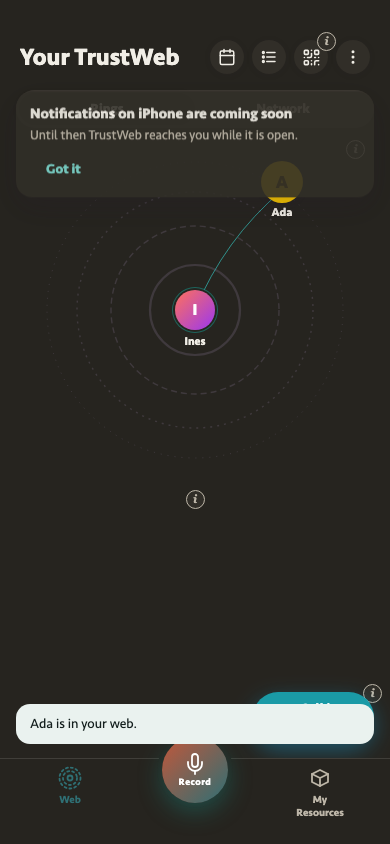
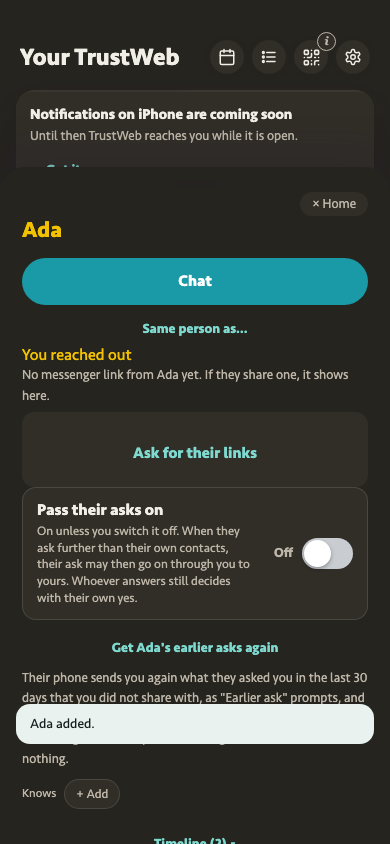
[wave16] Visitor flow: add the inviter by your own tap (no auto-connect), settings gear on the Web screen, hint before demo card, reliable-notifications wording, download note with sideloading advice (#32)
* [wave16] Visitor via a link: an empty web with the add sheet; only "Add to my web" connects (reach-out as before); "Not now" keeps an invite card

* [wave16] APK hint wording: "Get reliable notifications"; Settings: "Install the Android app for reliable notifications"

* [wave16] Web header: the settings gear as on My Resources (was ⋮); Settings > Your web holds "Curate your web"; e2e scripts open Settings by the gear

* [wave16] The yellow-dot legend only on a phone with a username link once someone reached out to it, never for the visitor who sent one

* [wave16] The APK/iPhone hint comes first right after join (no wait); the demo-content card only after it was answered or when none applies

* [wave16] "Not now" on the APK hint: toast "You can still find this at the top of Settings." (Android)

* [wave16] APK download (hint, Settings card, Install sheet): also a sheet "Check your Downloads folder on your phone" with the sideloading note and the GitHub source link

* [wave16] e2e visitor_apk_hint: add sheet before connect, hint before demo card, Not now toast, download sheet, gear; screenshots 06/07

* Wave 16: the download note names GitHub in the sentence ("check ours (open source on GitHub)")

---------

diff --git a/apps/trustweb/src/main.ts b/apps/trustweb/src/main.ts
@@ -61,7 +61,7 @@ import { randomId } from '../../demo/src/crypto'
 import { Net } from './net'
 import { stripUnsafe } from './safe_text'
 import type { AskResult, IncomingAsk, RelayStatus } from './net'
-import { AboutKind, ageLabel, askDirectOnly, Audience, AUDIENCES, Channel, CHANNELS, DEFAULT_RECORDINGS, DefaultRecording, defaultRecording, demoAccountScope, demoOnlyForDemoAccounts, enginePlan, featureOn, feedOn, setFeature, HintId, HINTS, isDemoItem, isDemoPerson, LEANS, LineStatus, pastMeetings, ProvenanceState, QueryStyle, RECORD_LINE_AUDIENCE, Ring, RINGS, REACH_OUT_INK, ringColor, ServerJobState, TabOrder, Tag, TAGS, threadIsDemo, ENGINE_CHOICES, TranscriptionChoice, transcriptionChoice } from './model'
+import { AboutKind, ageLabel, askDirectOnly, Audience, AUDIENCES, Channel, CHANNELS, DEFAULT_RECORDINGS, DefaultRecording, defaultRecording, demoAccountScope, demoOnlyForDemoAccounts, enginePlan, featureOn, feedOn, setFeature, HintId, HINTS, isDemoItem, isDemoPerson, LEANS, LineStatus, pastMeetings, ProvenanceState, QueryStyle, RECORD_LINE_AUDIENCE, Ring, RINGS, REACH_OUT_INK, reachOutLegendShown, ringColor, ServerJobState, TabOrder, Tag, TAGS, threadIsDemo, ENGINE_CHOICES, TranscriptionChoice, transcriptionChoice } from './model'
 import { CONSENSUAL_AGREEMENTS_LINK, channelLink, normalizeHandle } from './channel'
 import {
   REQUESTABLE, answerPlan, buildContactPayload, chatOnConsensual, consensualReachable, contactText, holdContact, mayAnswerRequest, mayAskAgain, parseRequestText, primaryReachable, reachableChannels,
@@ -118,7 +118,7 @@ import { agreementsSection } from './agreements_view'
 import { addNorm, buildProfileText, receiveProfileText, removeNorm, repairProfile, setOne } from './profile'
 import type { MyProfile } from './profile'
 import { profileSheetNodes, theirProfileBlock } from './profile_view'
-import { APK_URL, apkPart, currentEnv, isAndroidAgent, isIosAgent, setUpInstall } from './install'
+import { APK_URL, apkPart, currentEnv, isAndroidAgent, isIosAgent, onApkDownload, setUpInstall } from './install'
 import { apkHintKind, apkSettingsRow, type ApkHintEnv } from './apk_hint'
 import { runsAsInstalledApp } from './standalone_app'
 import { createInstallSheets } from './install_sheets'
@@ -663,6 +663,8 @@ function drawCardStack(): void {
   if (!state || screen !== Screen.Web || queryOpen || demoAccounts().some((t) => t.pending)) { cardStackEl.replaceChildren(); cardStackEl.hidden = true; return }
   const cards = stackCards(state, Date.now(), demoPhone(), quietHidden, (peerId) => Boolean(personOf(st().people, peerId)))
   drawStack(cardStackEl, cards, stackDeps)
+  const invite = inviteCard()
+  if (invite) { cardStackEl.prepend(invite); cardStackEl.hidden = false }
   for (const card of cards) if (hidesItself(card)) hideQuietLater(card.key)
 }
 
@@ -1199,6 +1201,8 @@ function apkUpdatesRow(s: AppState): HTMLElement[] {
   ]
 }
 
+const TRUSTWEB_SOURCE = 'https://github.com/Evobiosys/trustweb'
+
 /** Wave 16 (apk_hint.ts): what the hint decides from, read now. */
 function apkHintEnv(): ApkHintEnv {
   const e = currentEnv()
@@ -1210,25 +1214,35 @@ function apkHintEnv(): ApkHintEnv {
 }
 
 /**
- * Wave 16: the visitor's notice (Android: get the app; iPhone: coming soon). Seam: after offerNotifications and offerDemoContent
- * had their turn, it takes the top notice only when no other card or sheet is up, and tries again every few seconds while one is.
+ * Wave 16: the visitor's notice (Android: get the app; iPhone: coming soon), shown until dismissed (Jakob 2026-10-19). It comes FIRST
+ * (a sheet slides over it); `then` (the demo-content card) runs once it was answered, or at once when no notice applies. While another
+ * card is up it tries again every few seconds.
  */
-/** Jakob 2026-10-19: shown until dismissed. It waits only while another card is up (a sheet slides over it and it is there when the sheet closes). */
-function offerApkHint(): void {
-  setTimeout(() => {
-    if (!state || solo) return
-    const kind = apkHintKind(apkHintEnv())
-    if (!kind) return
-    if (!friendsEl.hidden) { offerApkHint(); return }
-    const android = kind === 'android'
-    const dismiss = (): void => { dismissNotice(st(), android ? 'apk-hint' : 'ios-soon'); save(); hideNotice() }
-    showNotice(android ? S.apkHintTitle : S.iosSoonTitle, android ? S.apkHintBody : S.iosSoonBody, android
-      ? [el('a', { class: 'btn btn-electric btn-sm', href: APK_URL, rel: 'noopener' }, [S.instApkButton]), el('button', { class: 'btn btn-ghost btn-sm', onclick: dismiss }, [S.apkHintNotNow])]
-      : [el('button', { class: 'btn btn-ghost btn-sm', onclick: dismiss }, [S.iosSoonOk])])
-    friendsEl.querySelector('span')?.setAttribute(android ? 'data-apk-hint' : 'data-ios-soon', '')
-    friendsEl.classList.add('stack')
-  }, 4500)
+function offerApkHint(then: () => void): void {
+  if (!state || solo) return
+  const kind = apkHintKind(apkHintEnv())
+  if (!kind) { then(); return }
+  if (!friendsEl.hidden) { setTimeout(() => offerApkHint(then), 4500); return }
+  const android = kind === 'android'
+  const answered = (): void => { hideNotice(); then() }
+  const dismiss = (): void => { dismissNotice(st(), android ? 'apk-hint' : 'ios-soon'); save(); answered(); if (android) toast(S.apkHintLaterToast) }
+  showNotice(android ? S.apkHintTitle : S.iosSoonTitle, android ? S.apkHintBody : S.iosSoonBody, android
+    ? [el('a', { class: 'btn btn-electric btn-sm', href: APK_URL, rel: 'noopener', onclick: () => { hideNotice(); apkDownloadedSheet(then) } }, [S.instApkButton]), el('button', { class: 'btn btn-ghost btn-sm', onclick: dismiss }, [S.apkHintNotNow])]
+    : [el('button', { class: 'btn btn-ghost btn-sm', onclick: dismiss }, [S.iosSoonOk])])
+  friendsEl.querySelector('span')?.setAttribute(android ? 'data-apk-hint' : 'data-ios-soon', '')
+  friendsEl.classList.add('stack')
 }
+
+/** Wave 16 (Jakob 2026-10-19): the APK link opens the download and this sheet (sideloading, then the permission off again). `then` after "Got it". */
+function apkDownloadedSheet(then?: () => void): void {
+  openSheet([el('div', { 'data-apk-downloaded': '' }, [
+    el('h3', {}, [S.apkDlTitle]),
+    el('p', {}, [S.apkDlBody]),
+    el('p', {}, [S.apkDlAfterBefore, el('a', { href: TRUSTWEB_SOURCE, rel: 'noopener', target: '_blank', title: S.apkDlSource }, [S.apkDlCheckOurs]), S.apkDlAfterAfter]),
+    el('button', { class: 'btn btn-electric', onclick: () => { closeSheet(); then?.() } }, [S.apkDlOk]),
+  ])])
+}
+onApkDownload(() => apkDownloadedSheet())
 
 function offerDemoContent(): void {
   const s = state
@@ -1289,19 +1303,24 @@ function announceLink(): void {
   }
 }
 
-async function completePendingConnect(): Promise<void> {
+/** `picked`: the visitor's add sheet ran it (offerPendingConnect) with the typed name and the ring; then their card opens, no second sheet. */
+async function completePendingConnect(picked?: { name: string; ring: Ring }): Promise<void> {
   const link = pendingConnect
   if (!link || !state) return
   pendingConnect = null
+  drawCardStack()
   const reachOut = reachOutPending && !solo && !demoLink
   reachOutPending = false
-  const ring = reachOut ? Ring.Intending : solo ? Ring.Friend : Ring.Acquaintance
+  const ring = picked?.ring ?? (reachOut ? Ring.Intending : solo ? Ring.Friend : Ring.Acquaintance)
   const peer = await net.completeConnect(link, ring, reachOut)
   const s = st()
   let person = s.people.find((p) => p.peerId === peer.id)
   if (!person) {
-    person = { id: randomId(8), name: peer.displayName, context: '', ring, metAt: Date.now(), lines: [], peerId: peer.id }
+    person = { id: randomId(8), name: picked?.name || peer.displayName, context: '', ring, metAt: Date.now(), lines: [], peerId: peer.id }
     s.people.push(person)
+  } else if (picked) {
+    if (picked.name) person.name = picked.name
+    person.ring = ring
   }
   if (reachOut && person.ring === Ring.Intending) person.reachedOut = 'sent'
   if (sharedNotes) {
@@ -1327,13 +1346,44 @@ async function completePendingConnect(): Promise<void> {
     if (demoLink.peer) await connectDemoPeer(demoLink.peer, person)
     queryOpen = true
     toast(S.demoWaitingToast(peer.displayName))
+  } else if (picked) {
+    toast(ring === Ring.Intending ? S.personAddedToast(person.name) : S.connectAddedToast(person.name))
   } else {
     toast(ring === Ring.Intending ? S.personAddedToast(peer.displayName) : S.peerConnectedToast(peer.displayName, S.ringLabel[ring]))
   }
   render()
   // Wave 6b: a scanned or pasted link lands on the person: the add sheet, then their card. A demo account and the demo phones keep the direct flow.
   if (demoLink || solo) openPendingShare()
-  else openConnectAdd(peer, person, link.from.displayName)
+  else if (picked) {
+    viaCard.closed(person.id)
+    if (!openPendingShare()) personSheet(person.id)
+  } else openConnectAdd(peer, person, link.from.displayName)
+}
+
+/**
+ * Wave 16 (Jakob 2026-10-19): a visitor who joined through a link starts with an empty web and the add sheet; only "Add to my web"
+ * connects (the reach-out, as before). "Not now" keeps the invite as a card above the web until the app is reloaded.
+ */
+function offerPendingConnect(): void {
+  const link = pendingConnect
+  if (!link) return
+  drawCardStack()
+  openSheet(renderConnectAdd({
+    name: link.from.displayName,
+    ring: Ring.Intending,
+    lead: S.connectAddLeadInvite,
+    onAdd: (name, ring) => { closeSheet(); void completePendingConnect({ name, ring }) },
+    onLater: closeSheet,
+  }).nodes)
+}
+
+/** The kept invite ("Not now" on offerPendingConnect's sheet): its card reopens the sheet. */
+function inviteCard(): HTMLElement | null {
+  if (!pendingConnect || !reachOutPending || solo || demoLink) return null
+  return el('div', { class: 'stack-card', 'data-invite-card': '', role: 'group' }, [
+    el('div', { class: 'stack-head' }, [el('b', {}, [S.inviteCardTitle(pendingConnect.from.displayName)])]),
+    el('div', { class: 'stack-actions' }, [el('button', { class: 'btn btn-electric btn-sm', type: 'button', onclick: offerPendingConnect }, [S.addSave])]),
+  ])
 }
 
 /** The code carried the meeting too (notes and transcript, encrypted): open it now. True when something opened. */
@@ -1433,12 +1483,12 @@ function screenStart(): Node[] {
     screen = Screen.Web
     render()
     if (solo) showDemoFriends()
-    else offerDemoContent()
+    else offerApkHint(offerDemoContent)
     offerNotifications()
     setTimeout(() => void offerApkUpdate(), 4000)
-    offerApkHint()
     void net.start().then(announceLink).then(() => refreshPush())
-    void completePendingConnect()
+    if (invite && !solo && !demo) offerPendingConnect()
+    else void completePendingConnect()
     maybeOpenPendingShare()
     maybeOpenPendingEvent()
   }
@@ -2012,13 +2062,14 @@ function screenWeb(): Node[] {
     network
       ? createNetworkView({ me: s.me, people: s.people, openPerson: (id) => personSheet(id), openMe: () => editNameSheet() })
       : ringsView(s, askMarks()),
-    s.people.some((p) => p.reachedOut) && !hintHidden(HintId.ReachOut) ? el('button', { class: 'hint-i legend-i', 'data-legend-reach-out': '', 'aria-label': S.hintOpen(S.hintLabel[HintId.ReachOut]), onclick: () => openHint(HintId.ReachOut) }, ['i']) : null,
+    reachOutLegendShown(st()) && !hintHidden(HintId.ReachOut) ? el('button', { class: 'hint-i legend-i', 'data-legend-reach-out': '', 'aria-label': S.hintOpen(S.hintLabel[HintId.ReachOut]), onclick: () => openHint(HintId.ReachOut) }, ['i']) : null,
     isEphemeral() ? el('p', { class: 'warn' }, [S.storageEphemeral]) : null,
   ])
   const clip = el('div', { class: 'scroll' }, [layer])
   zoomOnWeb(clip, layer)
   return [
-    header(S.webTitle, { right, more: true }),
+    // Jakob 2026-10-19: the gear as on My Resources (was ⋮ moreMenu, now unused; curating moved into Settings > Your web).
+    header(S.webTitle, { right, after: iconButton('settings', S.invSettings, settingsSheet) }),
     ...(s.people.length === 0 ? [] : [webViewToggle(network)]),
     clip,
     queryOpen ? queryDock(s) : queryFab(),
@@ -5017,6 +5068,9 @@ function settingsSheet(): void {
       connectionRow(),
       buildContactBox({}).el,
     ], true),
+    settingsSection('web', S.setSecWeb, [
+      el('button', { class: 'btn btn-ghost', 'data-settings-curate': '', onclick: curatorSheet }, [S.searchCurate]),
+    ]),
     settingsSection('reach', S.reachOutsTitle, solo || s.testOf ? [] : [
       el('button', {
         class: 'radio' + (s.reachOutsPaused ? ' on' : ''), 'aria-pressed': String(Boolean(s.reachOutsPaused)), 'data-reach-outs-pause': '1',
@@ -5593,10 +5647,9 @@ if (state && !state.testOf?.handedOverAt) {
   setTimeout(showAskCards, 1500)
   // The server only learns of this phone when its code is first shown (Meet); a phone that has one keeps it current.
   if (state.connectCode) void ensureConnectCode()
-  offerDemoContent()
+  offerApkHint(offerDemoContent)
   offerNotifications()
   setTimeout(() => void offerApkUpdate(), 4000)
-  offerApkHint()
   sweepDemoAccounts()
   setInterval(sweepDemoAccounts, 60_000)
   // Wave 6: knowing this site's front door lets its forwarded asks go on through this phone (mayPassOnFrom).

diff --git a/apps/trustweb/src/strings.ts b/apps/trustweb/src/strings.ts
@@ -129,6 +129,7 @@ export const S = {
   setSourceRemoved: (people: number, lines: number) => `Removed ${people} ${people === 1 ? 'person' : 'people'} and ${lines} ${lines === 1 ? 'line' : 'lines'}.`,
   setAdvanced: 'Advanced',
   setSecYou: 'You',
+  setSecWeb: 'Your web',
   setSecNotify: 'Notifications',
   setSecDevices: 'Devices and backups',
   setSecFeatures: 'Features',
@@ -1286,13 +1287,21 @@ export const S = {
   instApkLead: 'Or install the Android app: the same TrustWeb, with notifications while it is closed. Allow installing from this source once. Update it by installing the new one over it; uninstalling the app deletes its data on this phone (back up first).',
   instApkButton: 'Download the Android app (APK)',
   // Wave 16: the visitor's hint (apk_hint.ts).
-  apkHintTitle: 'Get notifications',
+  apkHintTitle: 'Get reliable notifications',
   apkHintBody: 'Install the Android app, then TrustWeb can reach you when it is closed.',
   apkHintNotNow: 'Not now',
+  apkHintLaterToast: 'You can still find this at the top of Settings.',
+  apkDlTitle: 'Check your Downloads folder on your phone',
+  apkDlBody: 'This is a sideloaded release, not from the Google Play Store, so your phone may ask you to allow installing from this source once.',
+  apkDlAfterBefore: 'Afterwards we recommend switching that permission off again, so other apps, which you cannot check the way you can ',
+  apkDlCheckOurs: 'check ours (open source on GitHub)',
+  apkDlAfterAfter: ', and which might carry malware, are stopped.',
+  apkDlSource: 'TrustWeb is open source on GitHub',
+  apkDlOk: 'Got it',
   iosSoonTitle: 'Notifications on iPhone are coming soon',
   iosSoonBody: 'Until then TrustWeb reaches you while it is open.',
   iosSoonOk: 'Got it',
-  apkSettingsTitle: 'Install the Android app for notifications',
+  apkSettingsTitle: 'Install the Android app for reliable notifications',
   apkSettingsShown: 'Shown until the app is installed.',
   instMenu: 'This browser has not offered a one-tap install. Most browsers can still do it from their menu:',
   instMenuSteps: [
@@ -1638,6 +1647,9 @@ export const S = {
   connectCodeNote: 'This short link is your connect code: it stays the same when your name changes. Our server keeps your connect link for it (your name, your TrustWeb address, no notes and no messenger links). The long link below works without our server.',
   connectAddTitle: (name: string) => (name ? `Add ${name} to your web?` : 'Add this person to your web?'),
   connectAddLead: 'You are connected. Choose how close you are; you can change it any time on their card.',
+  // Wave 16 (Jakob 2026-10-19): a visitor who joined through a link is connected only by "Add to my web".
+  connectAddLeadInvite: 'Adding them lets them know you want to connect. Choose how close you are; you can change it any time on their card.',
+  inviteCardTitle: (name: string) => `Add ${name || 'this person'} to your web`,
   connectAddNamePh: 'Name',
   connectAddWaiting: 'Waiting for their name...',
   connectAddWaitingHint: 'Their phone has not told us their name yet. Type one if you like; it is replaced when theirs arrives, unless you typed it.',

diff --git a/apps/trustweb/src/install.ts b/apps/trustweb/src/install.ts
@@ -69,9 +69,13 @@ export function apkPart(lead: string = S.instApkLead): HTMLElement | null {
   if (typeof navigator === 'undefined' || !isAndroidAgent(navigator.userAgent)) return null
   return el('div', { class: 'inst-apk', 'data-install-apk': '' }, [
     el('p', { class: 'meta' }, [lead]),
-    el('a', { class: 'btn btn-ghost btn-sm', href: APK_URL, rel: 'noopener' }, [S.instApkButton]),
+    el('a', { class: 'btn btn-ghost btn-sm', href: APK_URL, rel: 'noopener', onclick: () => apkDownloaded?.() }, [S.instApkButton]),
   ])
 }
+
+let apkDownloaded: (() => void) | null = null
+/** Wave 16: what a tap on the APK link does besides the download (main.ts: the "Check your Downloads folder" sheet). */
+export function onApkDownload(fn: () => void): void { apkDownloaded = fn }
 
 let deferred: InstallPromptEvent | null = null
 let installedNow = false

diff --git a/apps/trustweb/src/connect_add_view.ts b/apps/trustweb/src/connect_add_view.ts
@@ -16,6 +16,8 @@ export interface ConnectAddOptions {
   /** The name the link or the handshake gave; '' when none is known yet. */
   name: string
   ring: Ring
+  /** The line under the title; default S.connectAddLead ("You are connected."). */
+  lead?: string
   /** The person pressed "Add to my web": the typed (or given) name, possibly '', and the ring. */
   onAdd: (name: string, ring: Ring) => void
   /** "Not now": the person stays as connected, in the ring they were put in. */
@@ -51,7 +53,7 @@ export function renderConnectAdd(o: ConnectAddOptions): ConnectAddHandle {
   drawRadios()
   const nodes: Node[] = [
     title,
-    el('p', { class: 'meta' }, [S.connectAddLead]),
+    el('p', { class: 'meta' }, [o.lead ?? S.connectAddLead]),
     name,
     hint,
     radios,

diff --git a/apps/trustweb/src/model.ts b/apps/trustweb/src/model.ts
@@ -65,6 +65,11 @@ export function ringColor(p: Pick<Person, 'ring' | 'fields'> & { reachedOut?: Pe
   return RING_COLORS.family[ringSlot(p) as 'close']
 }
 
+/** Wave 16 (Jakob 2026-10-19): the yellow-dot legend "i" only on a phone with a username link, once someone reached out to it. */
+export function reachOutLegendShown(s: Pick<AppState, 'connectCode' | 'people'>): boolean {
+  return Boolean(s.connectCode) && s.people.some((p) => p.reachedOut === 'received')
+}
+
 /** The web search engines of "Search the web instead" (wave 2, B8; web_search.ts). A fixed set. */
 export enum SearchEngine {
   Google = 'google',
